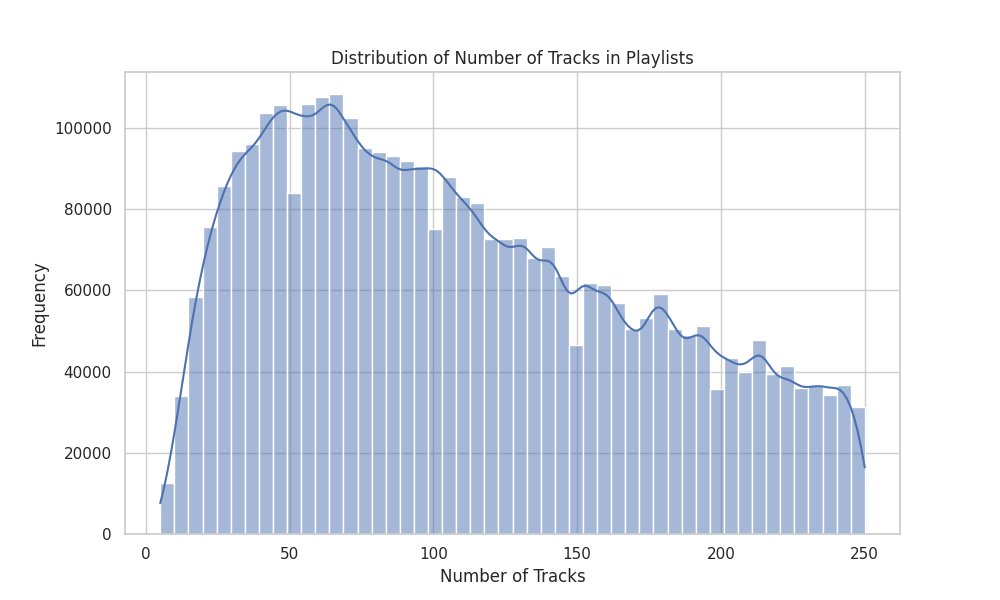
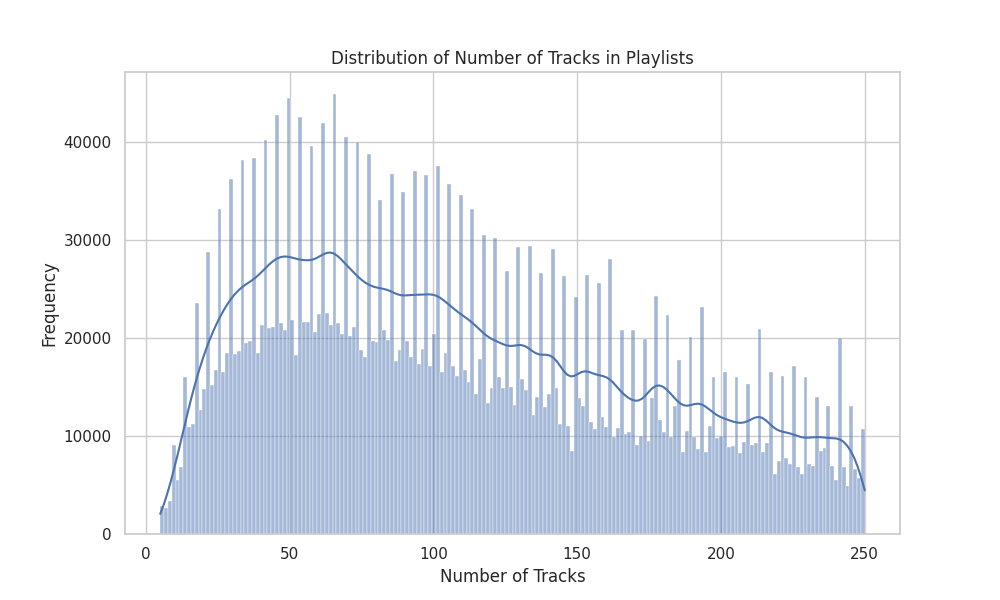
second commit

diff --git a/preprocess.py b/preprocess.py
@@ -2,6 +2,9 @@ import re
 import pandas as pd
 import matplotlib.pyplot as plt
 import seaborn as sns
+from sklearn.preprocessing import OrdinalEncoder
+from sklearn.preprocessing import RobustScaler
+import category_encoders as ce
 
 SAMPLE_SIZE = 100000 # no. of rows loaded (total = 1M)
 PLAYLIST_CSV = "temp/playlists.csv"
@@ -43,10 +46,15 @@ dataframe['track_uri'] = dataframe['track_uri'].apply(extract_uri)
 dataframe['artist_uri'] = dataframe['artist_uri'].apply(extract_uri)
 dataframe['album_uri'] = dataframe['album_uri'].apply(extract_uri)
 dataframe['normalized_playlist_title'] = dataframe['name'].apply(normalize_name)
+dataframe['playlist_duration_s'] = dataframe['playlist_duration_ms'] / 1000
+dataframe['track_duration_s'] = dataframe['track_duration_ms'] / 1000
 
 
 print("Dropped DataFrame")
 print(dataframe.memory_usage().sum())
+
+# Save the dataframe in high performance dataframe on disk
+dataframe.to_hdf('temp/dataframe.h5', key='dataframe', mode='w')
 
 
 ######################################################
@@ -55,7 +63,7 @@ print(dataframe.memory_usage().sum())
 num_playlists = dataframe['pid'].nunique()
 
 # Number of tracks
-num_tracks = dataframe['track_uri'].nunique()
+num_tracks = dataframe['track_uri'].count()
 
 # Number of unique tracks
 num_unique_tracks = dataframe['track_uri'].nunique()
@@ -94,10 +102,11 @@ metrics = {
 metrics_df = pd.DataFrame(list(metrics.items()), columns=['Metric', 'Value'])
 
 print(metrics_df)
+dataframe = dataframe.drop('name', axis=1)
 
 # Distribution of number of tracks in playlists
 plt.figure(figsize=(10, 6))
-sns.histplot(dataframe['num_tracks'], bins=50, kde=True)
+sns.histplot(dataframe['num_tracks'], kde=True)
 plt.title('Distribution of Number of Tracks in Playlists')
 plt.xlabel('Number of Tracks')
 plt.ylabel('Frequency')
@@ -105,11 +114,21 @@ plt.savefig('./fig1.png')  # Adjust path as needed
 
 # Distribution of number of artists in playlists
 plt.figure(figsize=(10, 6))
-sns.histplot(dataframe['num_artists'], bins=50, kde=True)
+sns.histplot(dataframe['num_artists'], kde=True)
 plt.title('Distribution of Number of Artists in Playlists')
 plt.xlabel('Number of Artists')
 plt.ylabel('Frequency')
 plt.savefig('./fig2.png')  # Adjust path as needed
 
+# Un box plot (o box-and-whisker plot) mostra la distribuzione dei dati
+# quantitativi.
 
-######### Split Dataset
+# Il grafo mostra i quartili del set di dati, mentre i whiskers (baffi)
+# si estendono  per mostrare il resto della distribuzione, ad eccezione dei
+# punti che sono stati determinati come "outlier" poiché si allontanano oltre
+# 1,5*IQR verso sx o verso dx.
+
+plt.figure(figsize=(10, 6))
+sns.boxplot(data=dataframe, x = dataframe['playlist_duration_s'])
+plt.xlabel('Playlist duration (sec)')
+plt.savefig('./fig3.png')  # Adjust path as needed

diff --git a/train_test.py b/train_test.py
@@ -3,9 +3,9 @@ import pandas as pd
 import numpy as np
 
 SAMPLE_SIZE = 100000 # no. of rows loaded (total = 1M)
-CSV = "temp/combined_playlists.csv" 
+HDF = "temp/dataframe.h5" 
 
-df = pd.read_csv(CSV, nrows=SAMPLE_SIZE)
+df = pd.read_hdf(HDF) #nrows=SAMPLE_SIZE)
 
 
 # Split into initial training+validation and test sets
